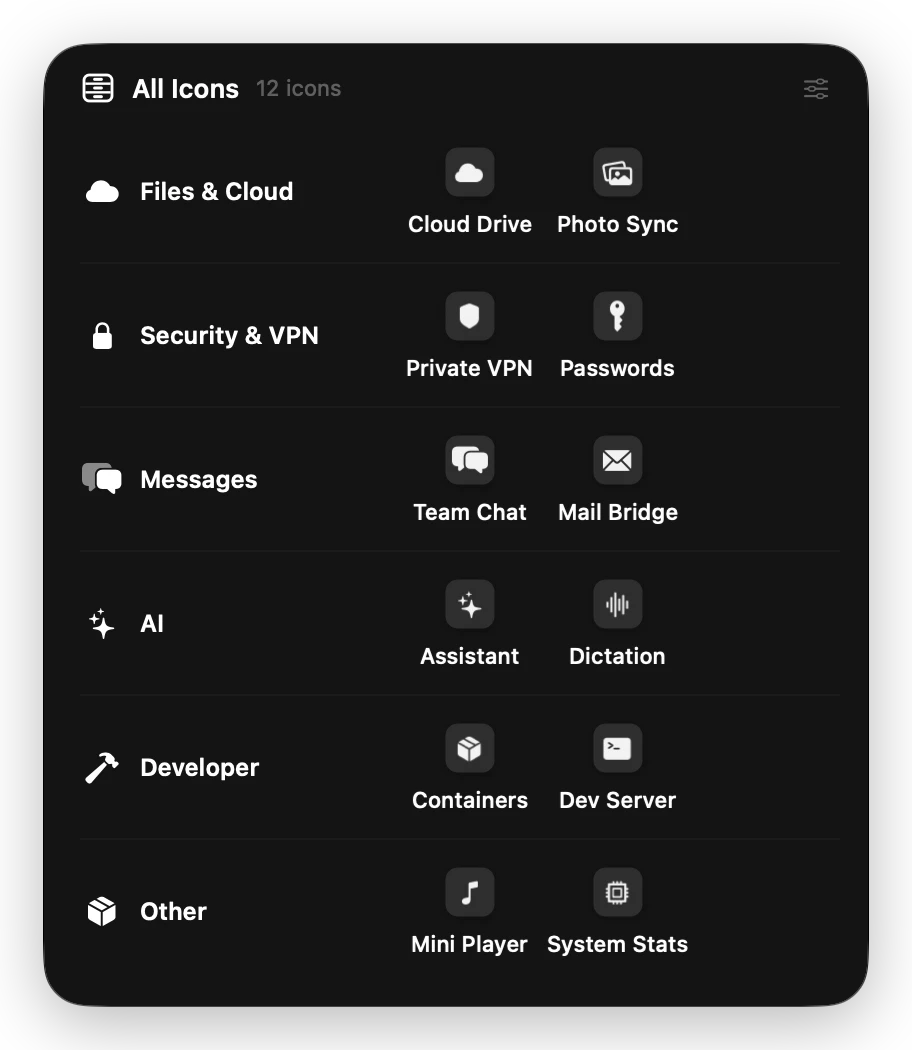
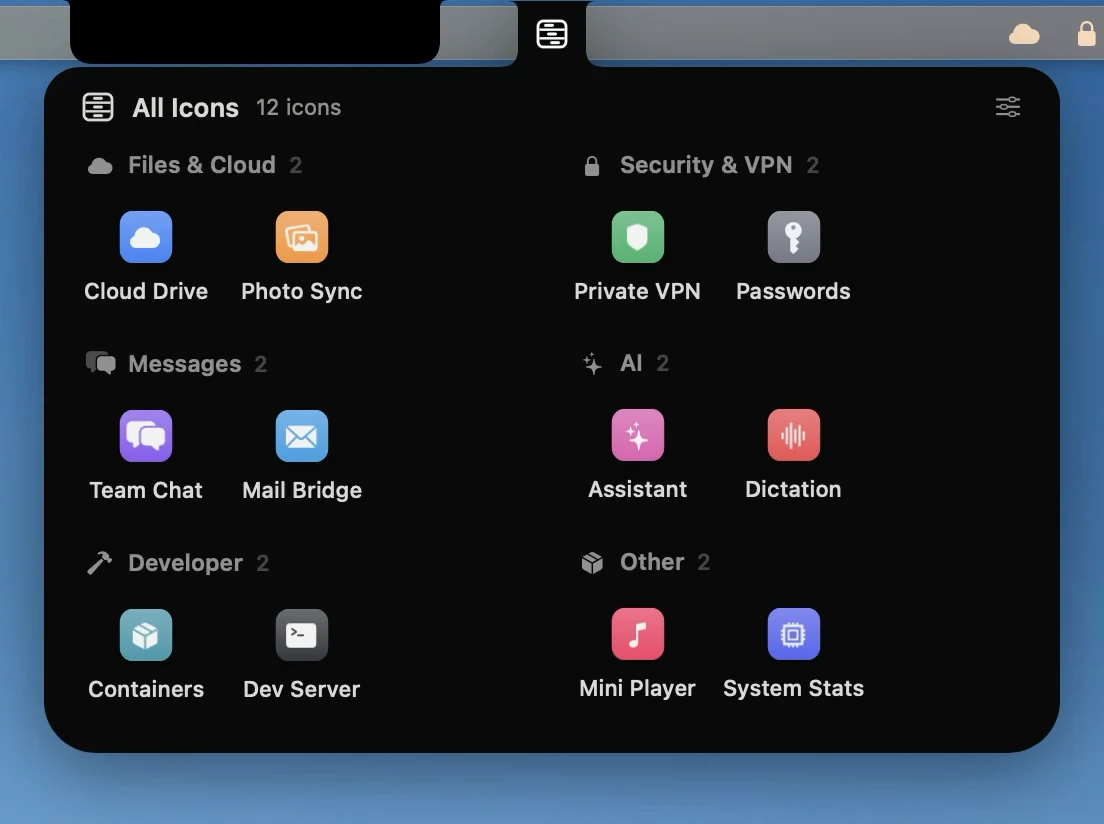
README: Col filmed on a MacBook with a notch, on a Mac without one, and its drawers
The three Mac pictures of the README, filmed from the real app: the intro, a song beside the camera, the island open on it, on Col's own notch and on the pill; the All drawer hanging from its icon. The drawers' pictures on the website and in the README show the new drawer.

diff --git a/site/index.html b/site/index.html
@@ -376,7 +376,7 @@
                 <h3 class="h3">Your menu bar, in drawers.</h3>
                 <p>Turn on Menu Bar in Settings and Col tidies the icons of the menu bar into drawers: one icon per drawer, sorted for you, each dropping its apps from its icon the way the island drops from the notch, and all of them on a page of the island. The room it frees beside the notch goes to the island. Off, nothing of it runs.</p>
               </div>
-              <div class="frame"><div class="stage" style="--span:680;--rows:560"><img loading="lazy" decoding="async" class="shot" src="assets/menubar/drawers.webp" style="--w:456" alt="The All drawer of the menu bar: twelve icons sorted into Files and Cloud, Security and VPN, Messages, AI, Developer and Other."></div></div>
+              <div class="frame"><div class="stage" style="--span:680;--rows:560"><img loading="lazy" decoding="async" class="shot" src="assets/menubar/drawers.webp" style="--w:552" alt="The All drawer of the menu bar, hanging from its icon: twelve icons sorted into Files and Cloud, Security and VPN, Messages, AI, Developer and Other."></div></div>
             </div>
           </div>
           <div class="tile third reveal"><h4>Mute from the island</h4><p>A Mute button while an app listens, and a red microphone beside the camera for as long as it stays muted. <kbd>⌃⌥⌘M</kbd> too, if you like.</p></div>

diff --git a/README.md b/README.md
@@ -58,7 +58,7 @@ Every picture here is the app itself, filmed as it runs, with a demo song and no
       <sub>A layer-shell overlay on KDE Plasma, COSMIC, Hyprland, Sway and niri; under XWayland on GNOME.</sub>
     </td>
     <td align="center" width="50%">
-      <img src="docs/images/readme-drawers.gif" alt="A drawer of the menu bar drops from its icon like the island from the notch, its apps arriving one after the other" width="100%"><br>
+      <img src="docs/images/readme-drawers.gif" alt="The All drawer of the menu bar hanging from its icon like the island from the notch, its apps sorted by what they do, then going back into its icon" width="100%"><br>
       <b>A tidy menu bar</b><br>
       <sub>Drawers that drop from their icon, and your menu bar in the island.</sub>
     </td>
@@ -228,7 +228,7 @@ Beside the notch there is room for about a dozen icons, and the rest vanish behi
 Tidy the menu bar into drawers, and Col sorts them for you.
 
 <p align="center">
-  <img src="docs/images/drawers.webp" alt="The All drawer of the menu bar dropped from its icon: icons sorted into Files and Cloud, Security and VPN, Messages, AI, Developer and Other" width="456">
+  <img src="docs/images/drawers.webp" alt="The All drawer of the menu bar dropped from its icon: icons sorted into Files and Cloud, Security and VPN, Messages, AI, Developer and Other" width="552">
 </p>
 
 - **Drawers.** Each drawer is one icon in the menu bar. A click drops it right out of that icon, black like the
@@ -361,7 +361,9 @@ open .build/xcode/Build/Products/Debug/Col.app
   film. A development build never opens at login: the Col in Applications keeps that. `scripts/capture-site.sh` uses them to photograph the
   real app for the website and this README. With the menu bar option on, `-ColDrawersDemo YES` shows generic icons
   and never touches your menu bar or your drawers, and `-ColDrawersPane layout`, `-ColDrawersWelcomeStep 2`,
-  `-ColDrawersOpen 0` (or `all`) and `-ColDrawersSearch cl` open one of the drawers' screens.
+  `-ColDrawersOpen 0` (or `all`) and `-ColDrawersSearch cl` open one of the drawers' screens. `-ColDrawersBackdrop`
+  lays a picture under the drawers and draws their own icons on its menu bar, since a capture of Col's windows has
+  no menu bar; `COL_CONFIGURATION=Release scripts/capture-site.sh` films the app as people get it.
 - `node site/tools/audit.mjs` checks the website at four sizes under its production headers (errors, blocked
   resources, broken images, overflow, the contrast of every text) and writes a screenshot of every section to
   `site/.shots/`; `node site/tools/frames.mjs` photographs the animated scenes at several moments.
